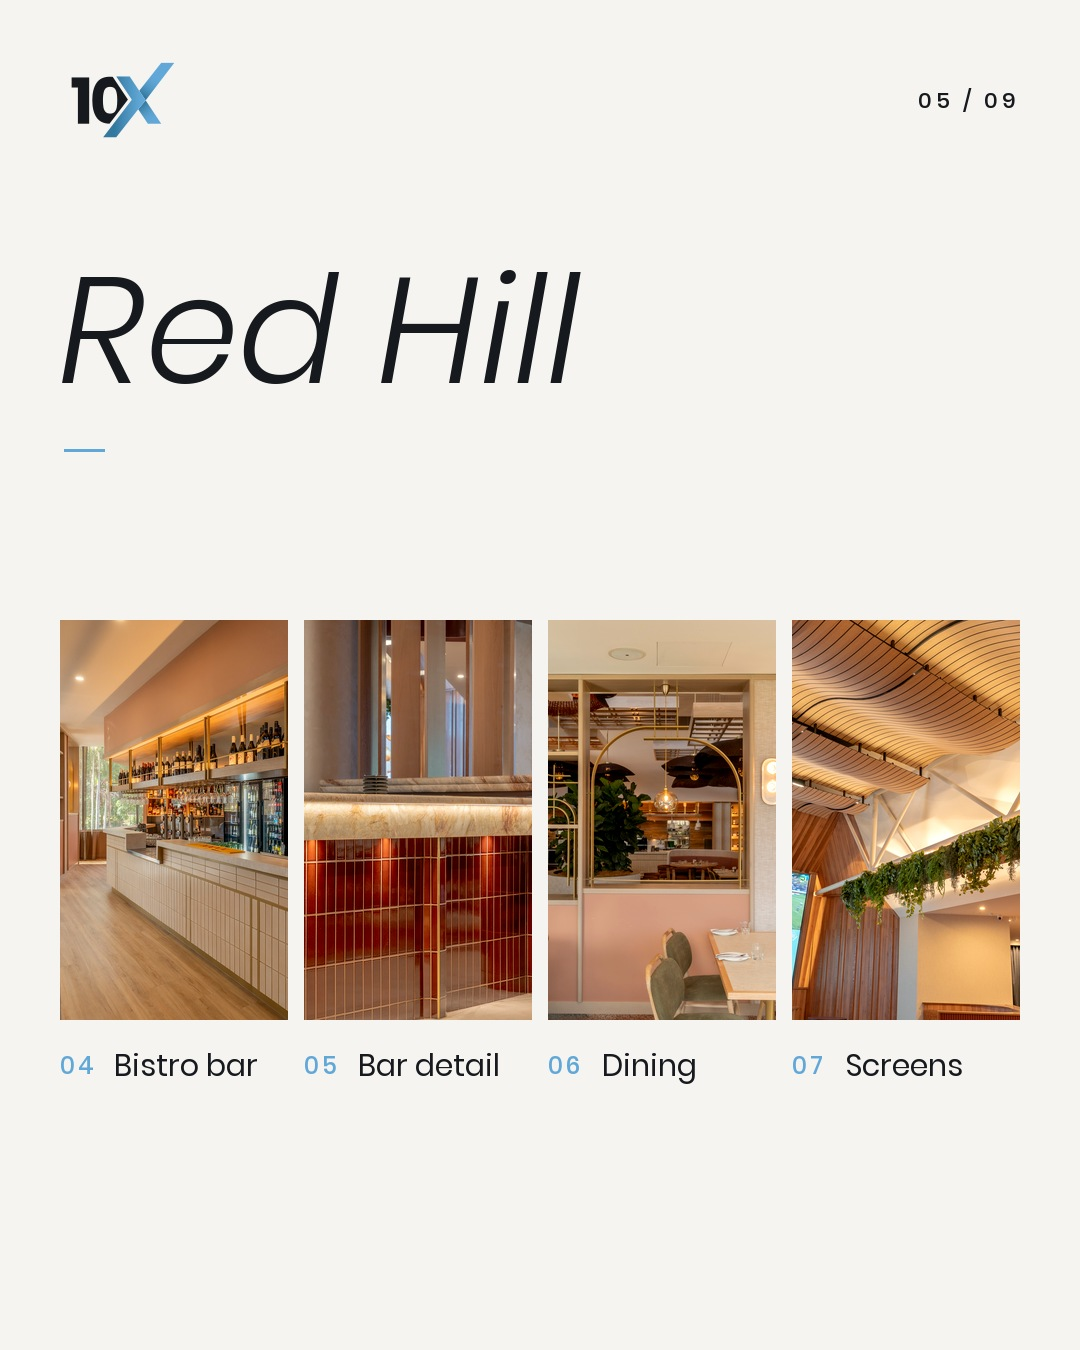
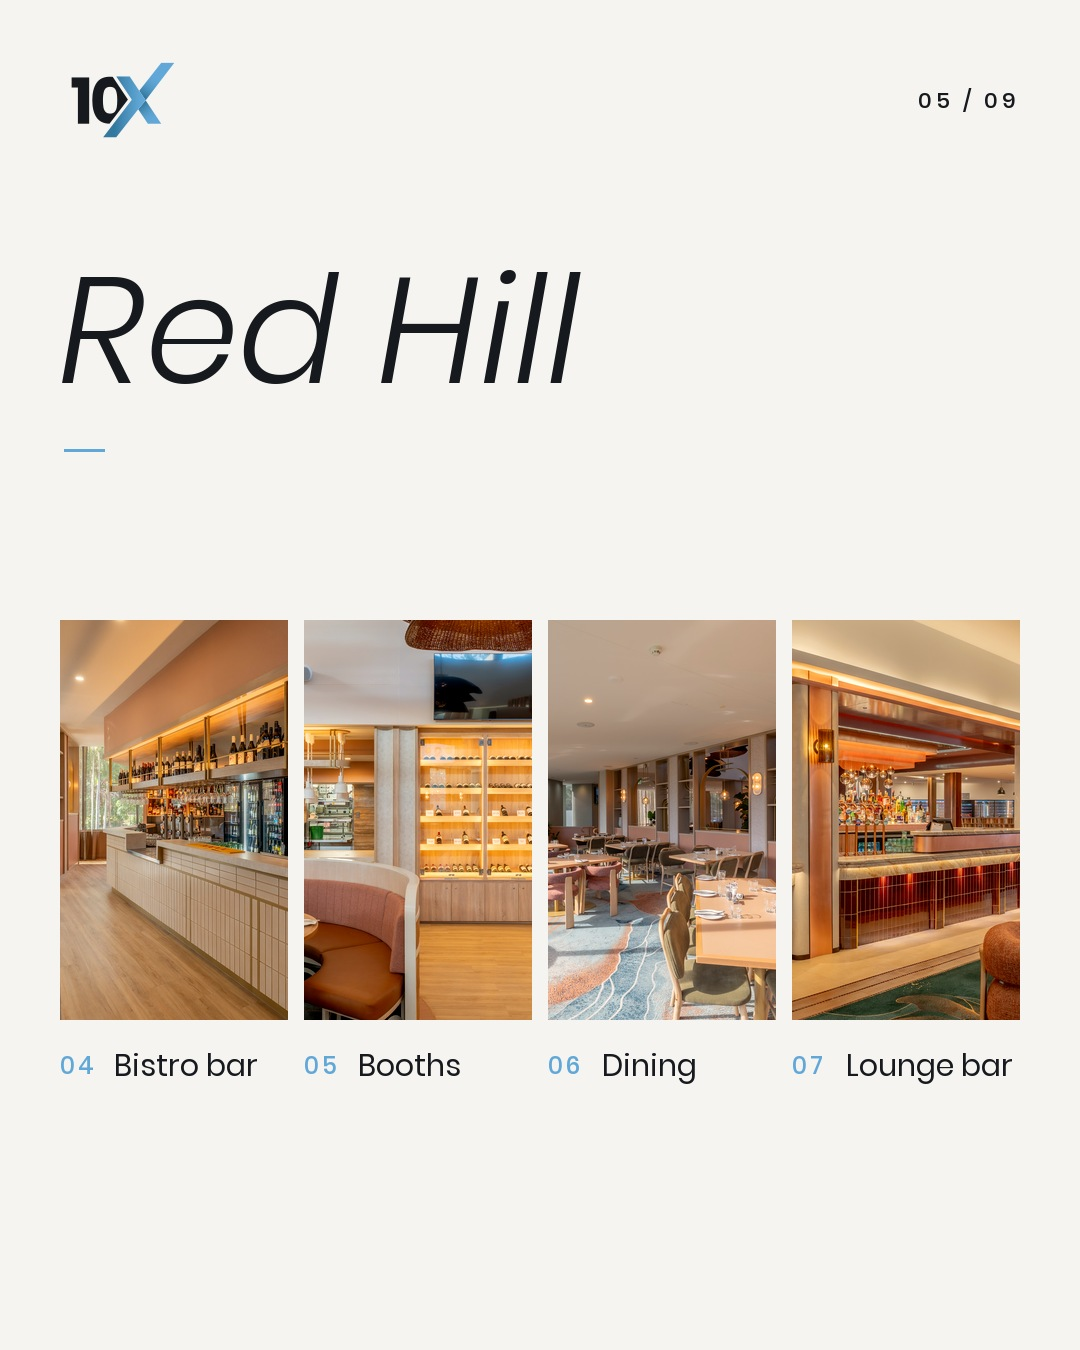
10xConstruction: Broncos + Kennedys (held) decks, posting folders; log

Changed region(s): [[0.275, 0.4356, 0.9472, 0.8089]]

diff --git a/wiki/log.md b/wiki/log.md
@@ -1476,3 +1476,6 @@ All guides and ID maps were re-rendered for C2, C3 and C4. The pool fence is hid
 
 ## [2026-10-26] harvest | @10xrealestate_ carousels v5.2 + posting planner
 Built 5 listing carousels: Cylinders, Solis, Pottsville townhouses (merged), Australis, and Somerset (new, Whitefox). Fixed the real suburbs: Mermaid Waters, Pottsville, Mudgeeraba. Planned 12 posts from 28 Oct. Hunter approved the design system, which is saved to auto-memory `template-10xrealestate-carousel.md` and the new [[10xrealestate-ig]] page. New standing rules: punched-in drones OK, no view drones, construction jobs stay off this page, merge identical shoots.
+
+## [2026-10-26] build | 10xConstruction carousels + both posting queues in Finder
+@10xrealestate_ has 11 posts in `Posting for 10xRealestate/Ready to Post/`, plus a 00 profile and highlights folder. The Cylinders main went up 26 Oct, so its reel moved last. Construction: Broncos Leagues Club deck is ready, the Grandview reel needs its builder handle, and Kennedys (Salisbury) is built and held for Murph. The Shape hotel set isn't identified yet. Construction stays on the original blue. Notes are in `projects/10xconstruction-ig/README.md`.

diff --git a/projects/10xconstruction-ig/README.md b/projects/10xconstruction-ig/README.md
@@ -1,0 +1,8 @@
+# 10xConstruction carousels
+
+The same seamless 9-slide system as @10xrealestate_. It's built with `../10xrealestate-ig/build_carousels.py carousels.json .` and uses the original blue (Hunter, 26 Oct). The kicker is the builder's name. Posting folders are in `~/Documents/Posting for 10xConstruction/Ready to Post/`.
+
+- Broncos Leagues Club, Red Hill (Ashley Cooper): ready, post 01.
+- Grandview Hotel: reel only. The builder's handle is still needed for the caption.
+- 120 Kennedys Lane (Salisbury): built, ON HOLD until Murph clears it and the suburb is confirmed.
+- Shape hotel set (46 photos, Desktop): venue unknown, not built.
